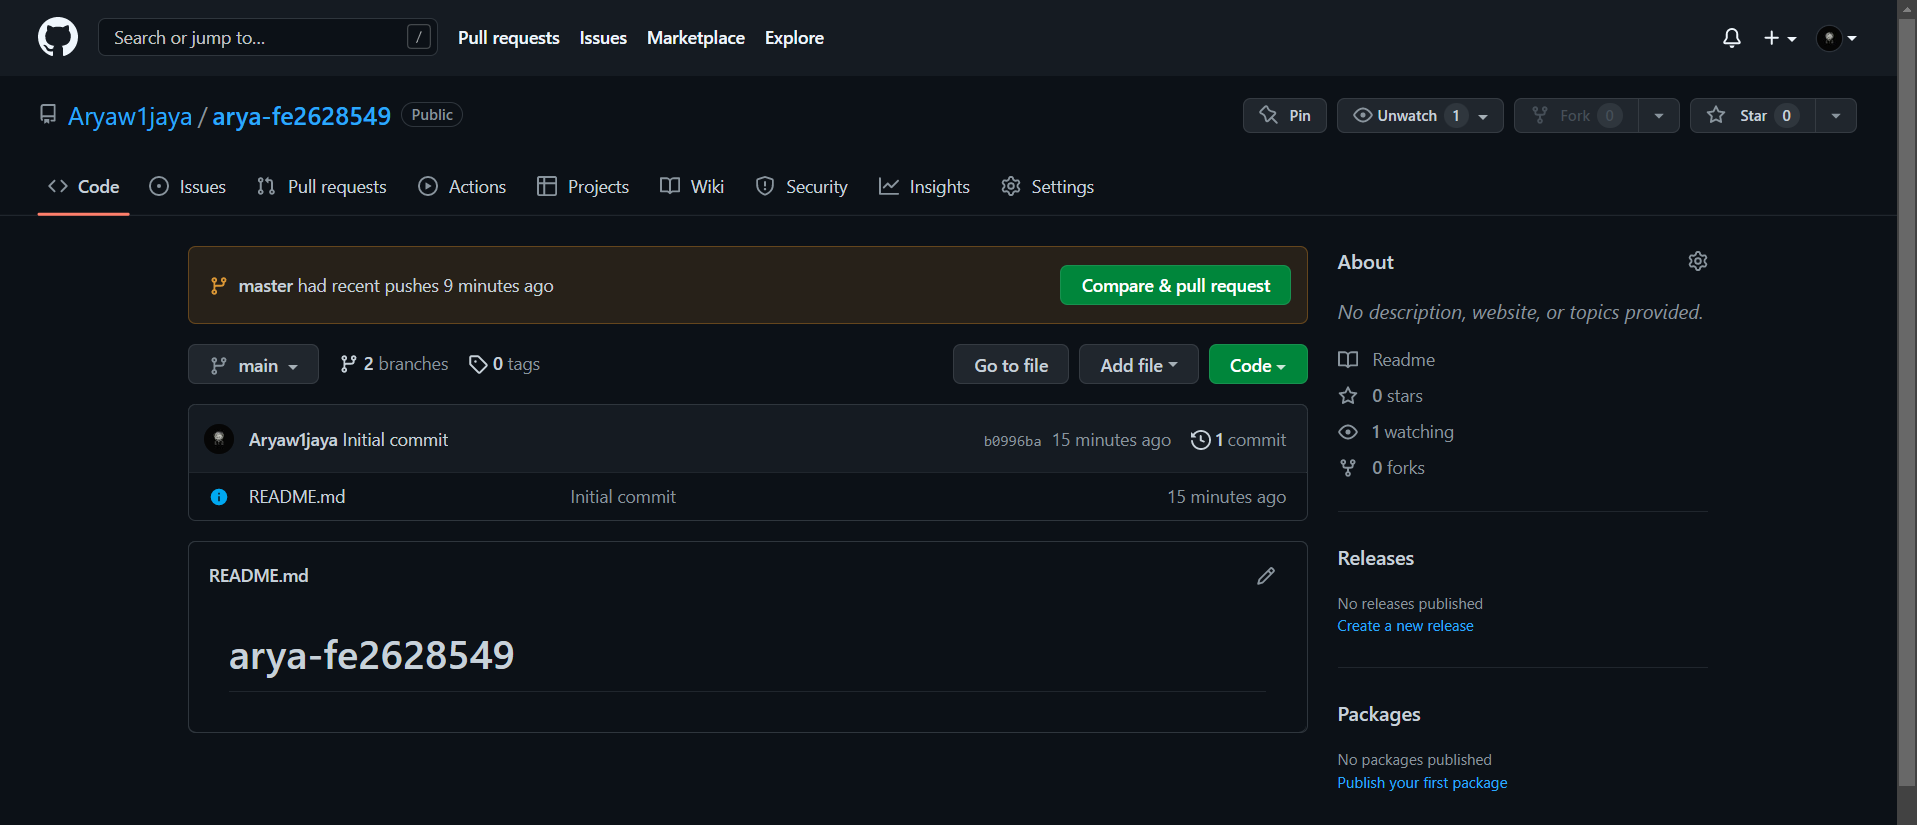
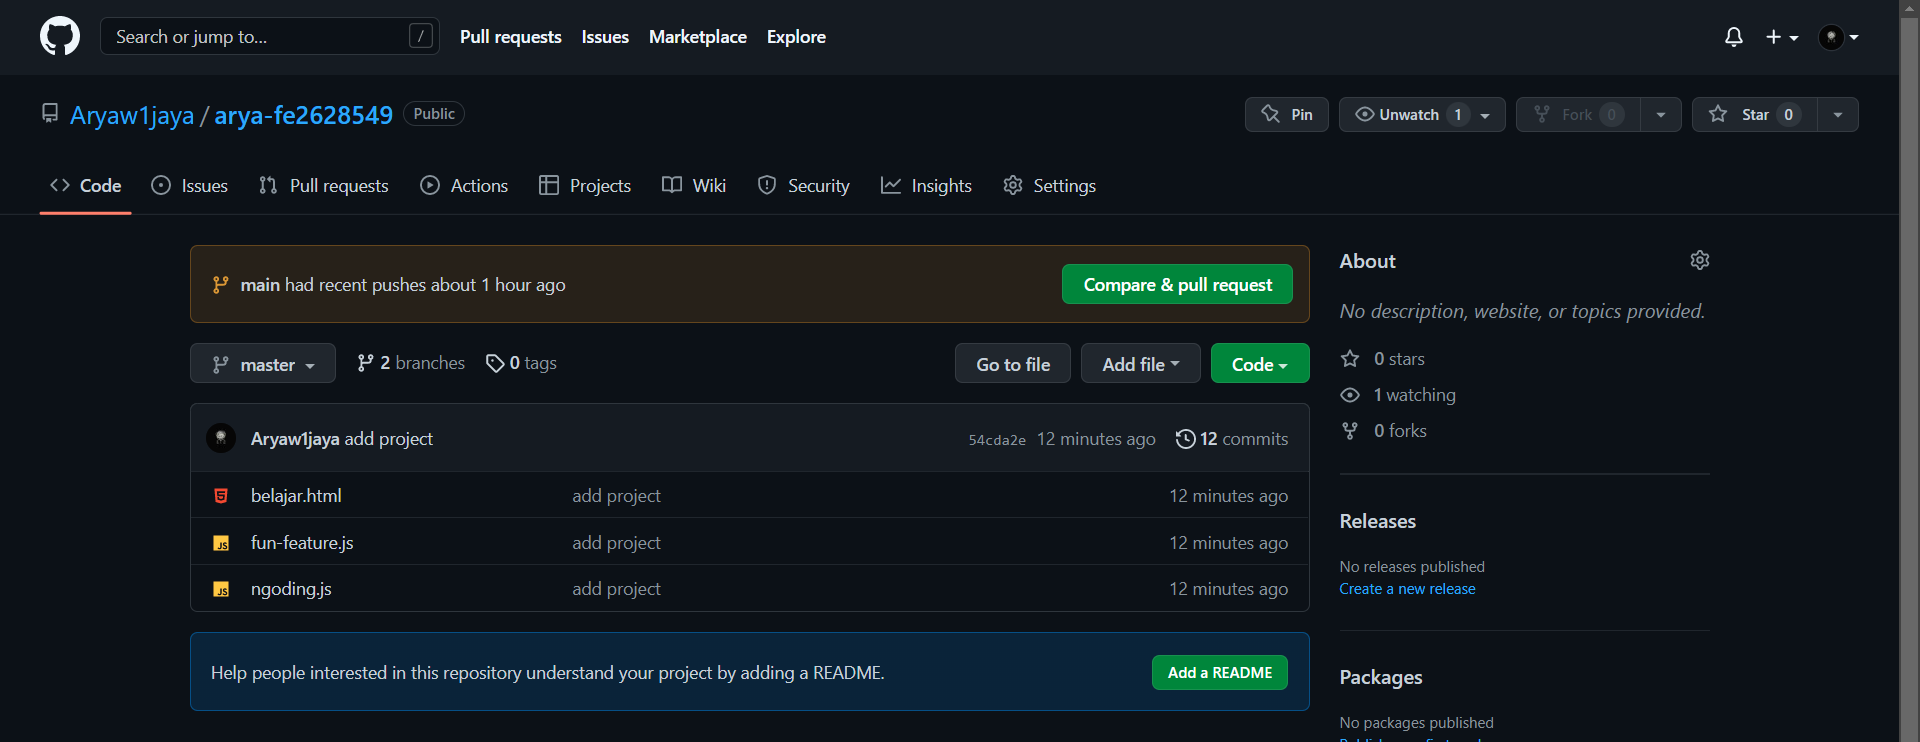
finishing

diff --git a/aryawijaya-fe2628549/git-exercise.md b/aryawijaya-fe2628549/git-exercise.md
@@ -824,7 +824,7 @@ Jika diperhatikan dengan `git status` kita sekarang berada pada branch `master`
 
 ## Remote
 
-- Exercise 1
+- Exercise 1 (Done)
 
   - **Task:** buatlah repository **public** di profile github mun dengan format _`name-id`_. Contohnya:
 
@@ -852,7 +852,7 @@ Jika diperhatikan dengan `git status` kita sekarang berada pada branch `master`
 
 ## Push
 
-- Exercise 1
+- Exercise 1 (Done)
 
   - **Task:** Lakukanlah `push` ke remote repository yang telah ditambahkan dengan branch bernama `main`:!
 
@@ -894,7 +894,7 @@ Jika diperhatikan dengan `git status` kita sekarang berada pada branch `master`
 
   ![assets/repo/exercise1.png](assets/repo/exercise1.png)
 
-- url repository github _(change `url` with your public repository Github)_: [github](url)
+- url repository github _(change `url` with your public repository Github)_: [github]https://github.com/Aryaw1jaya/arya-fe2628549
   
 Finish.
 
